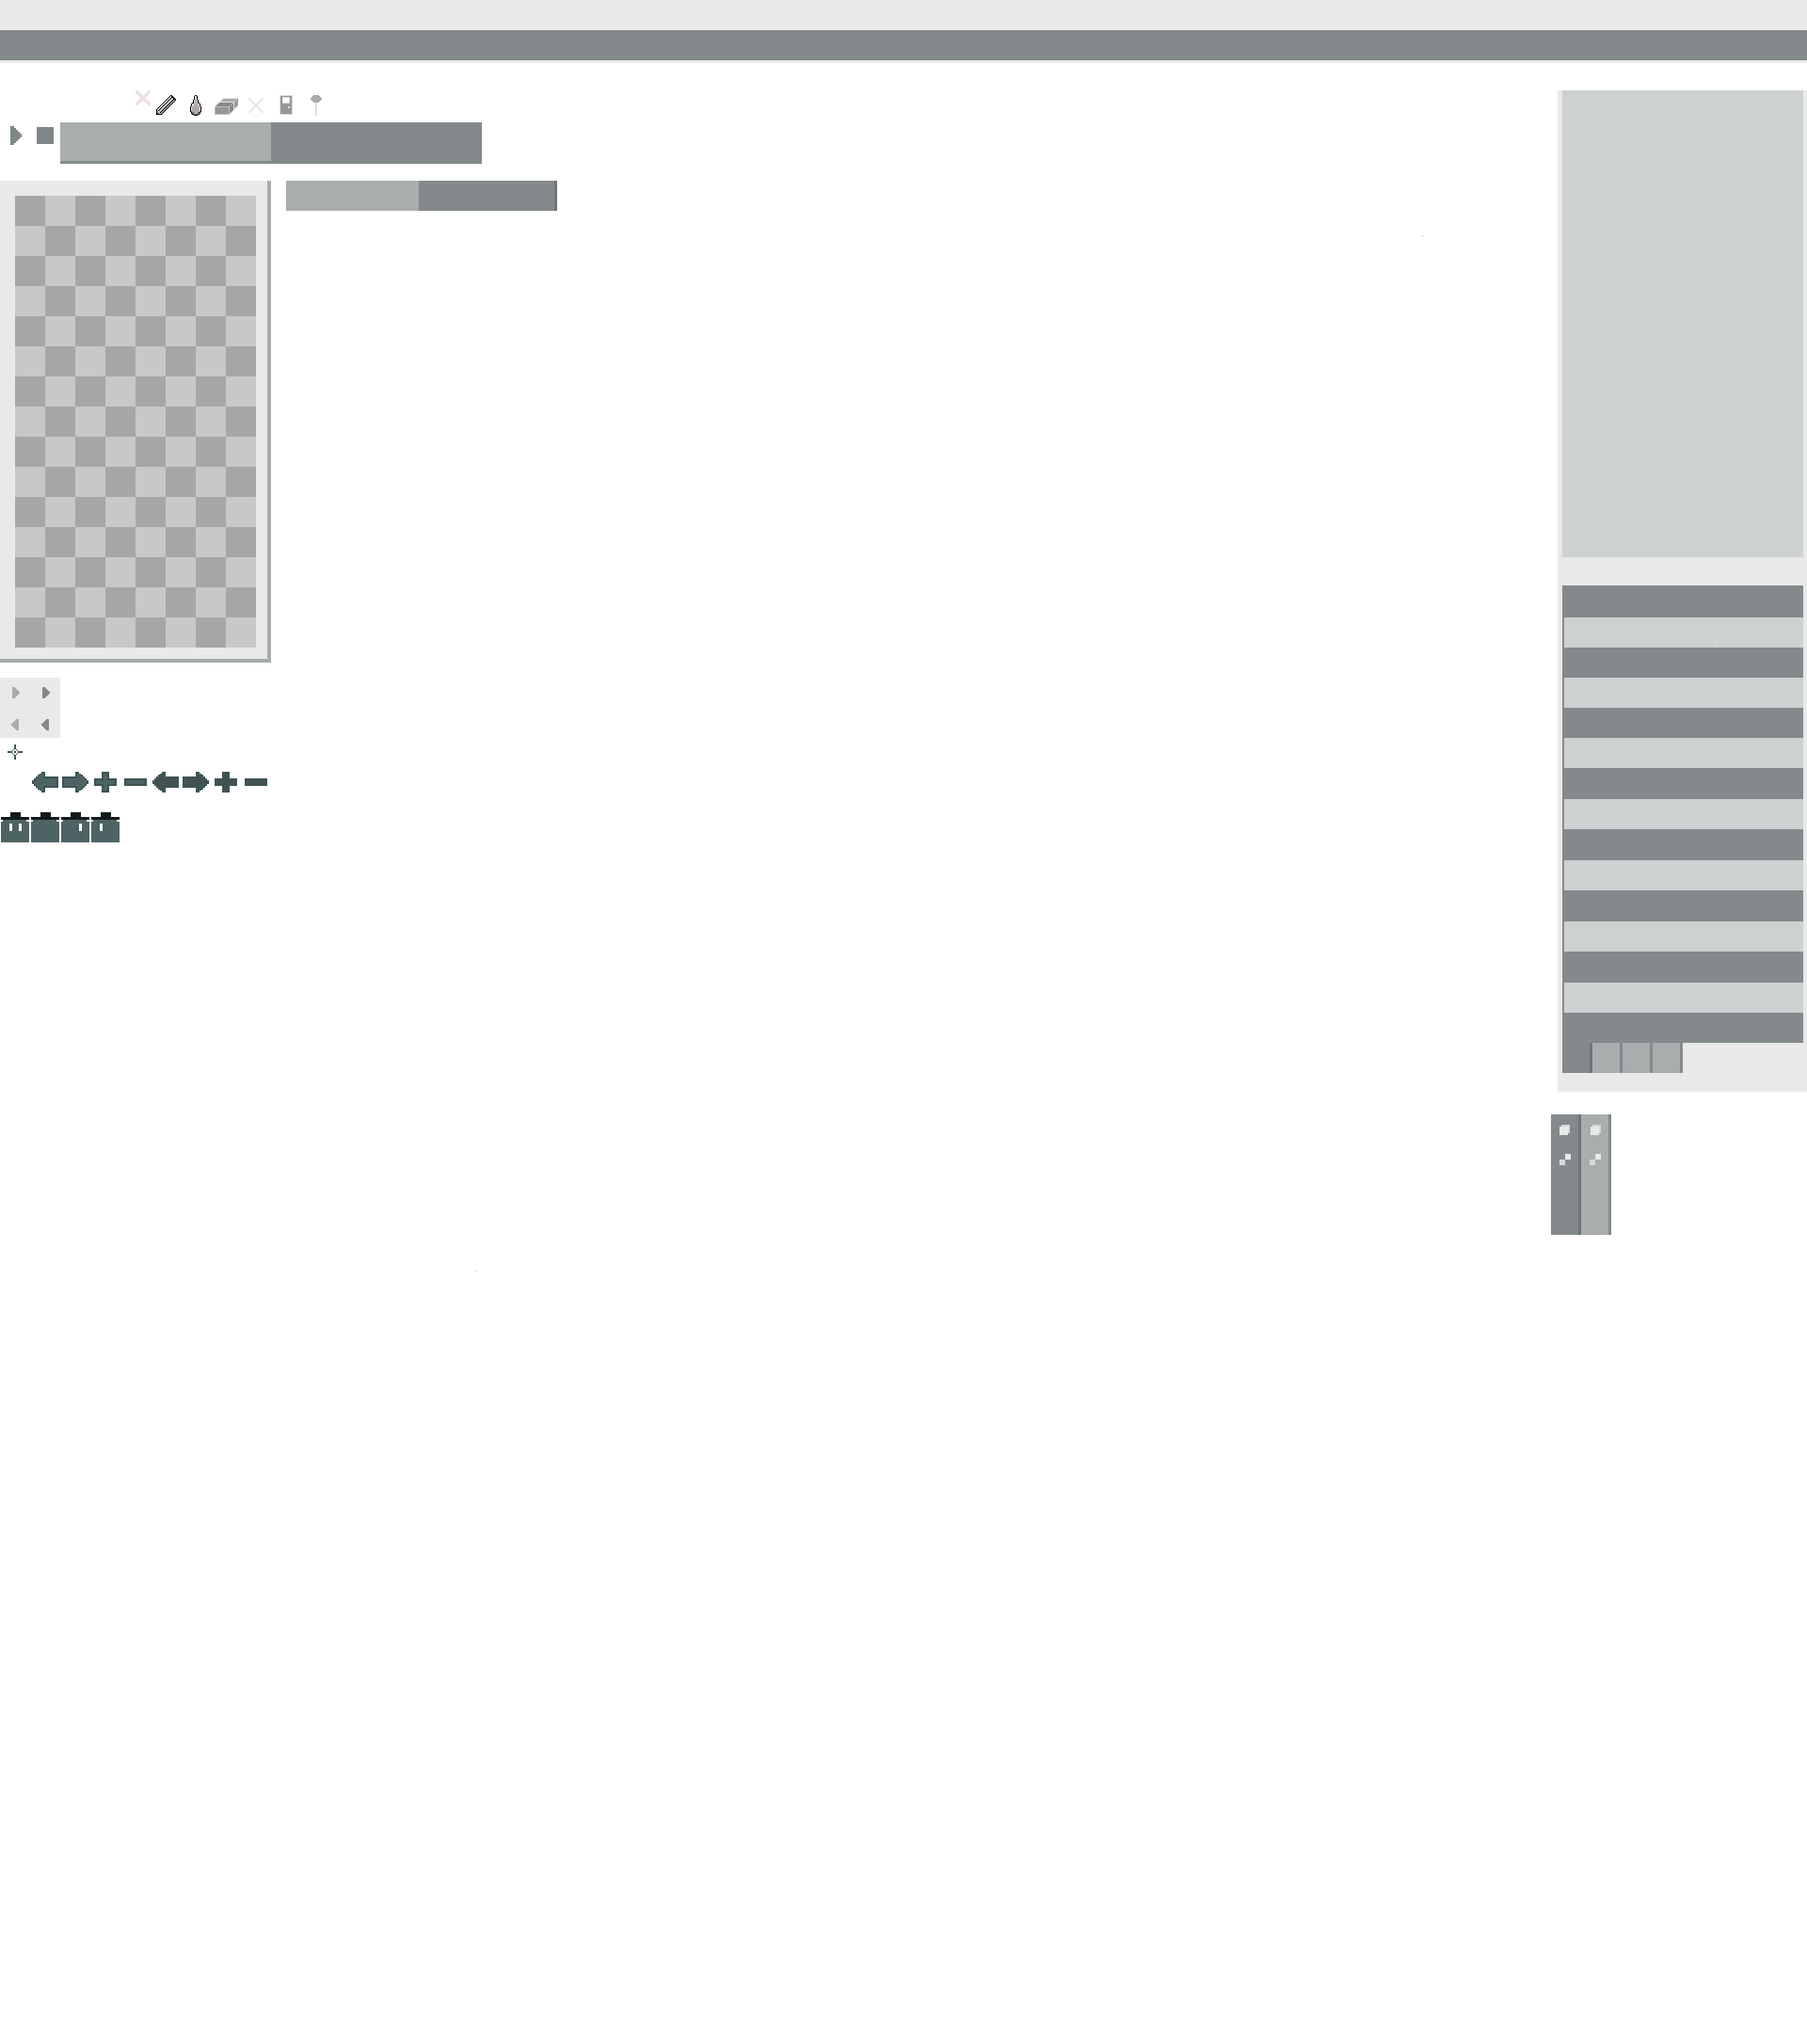
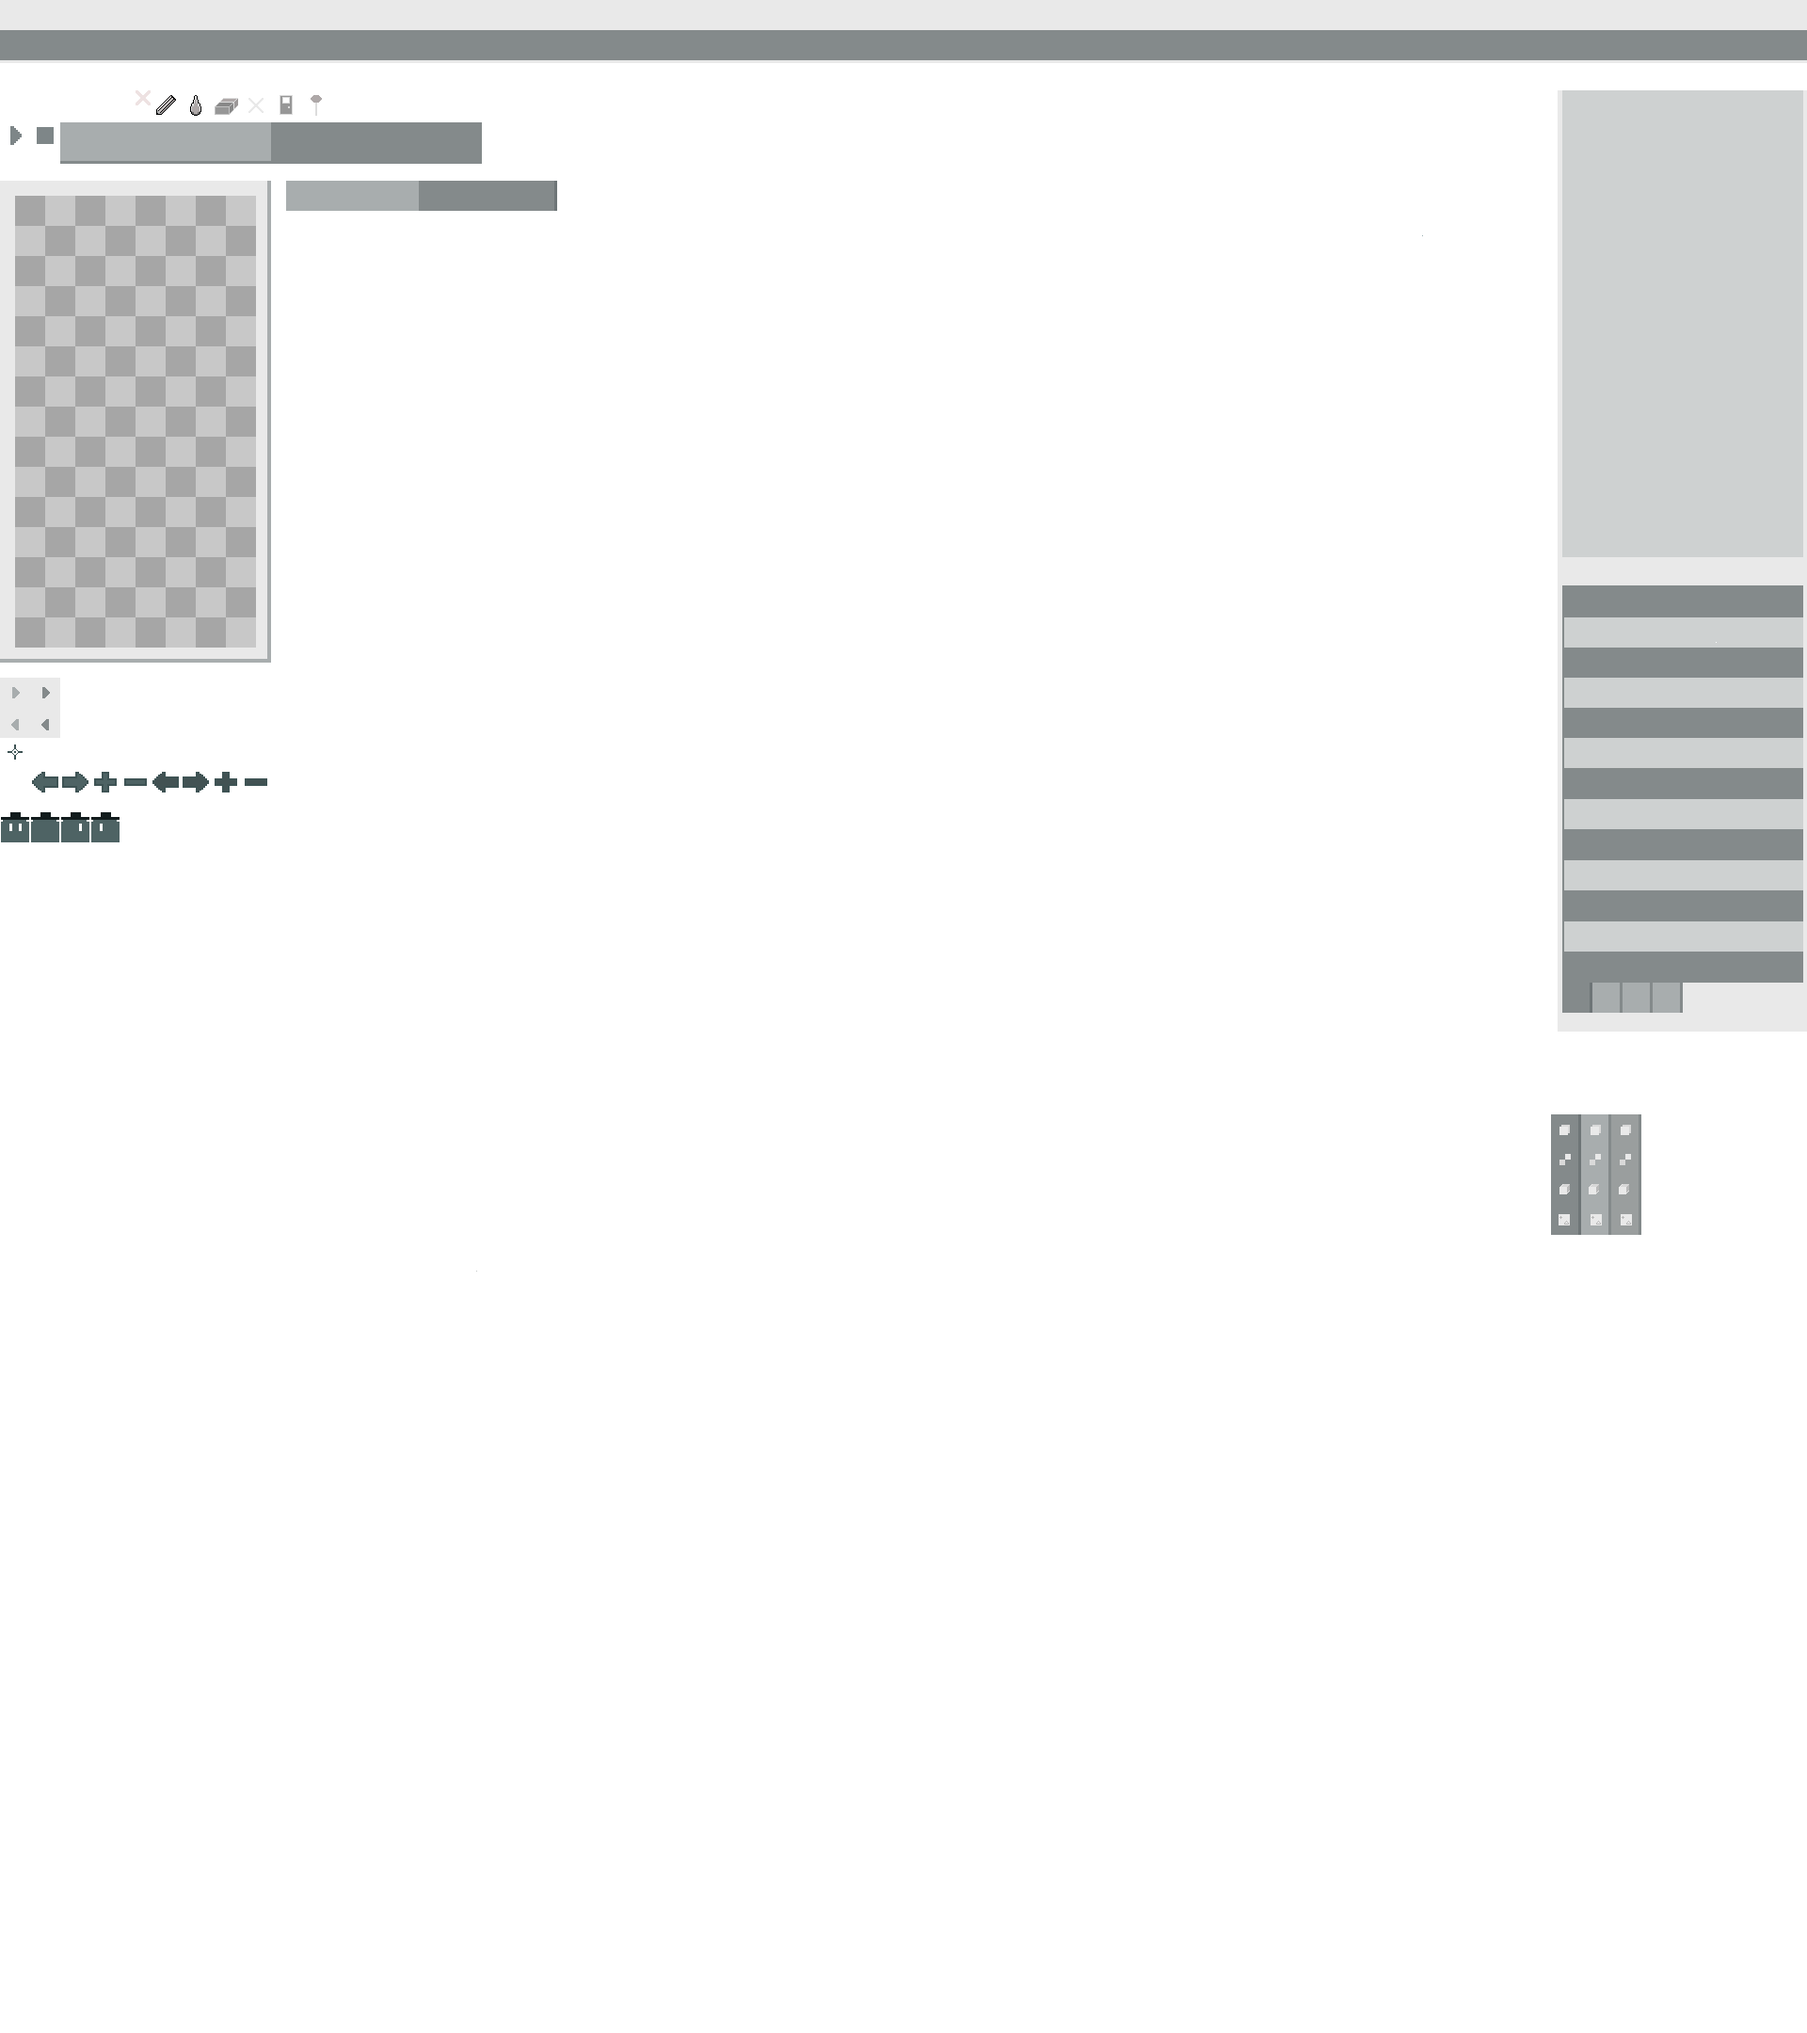
idk

Changed region(s): [[0.8438, 0.4653, 1.0, 0.6204]]

diff --git a/Game1.cs b/Game1.cs
@@ -93,13 +93,18 @@ namespace tile_mapper
         Button WorldScreen;
         Button SheetScreen;
         Button RuleSetScreen;
+        Button AreaMenuButton;
+        Button LayerMenuButton;
+        Button ObjectMenuButton;
+        Button SpriteMenuButton;
+
         Area StartArea;
         Area SelectedArea;
 
         List<UI_Menu> PropertyMenu1 = new List<UI_Menu>();
 
 
-        Rectangle CharacterSource = new Rectangle(0, 800, 32, 32);
+        Rectangle CharacterSource = new Rectangle(0, 864, 32, 32);
         
 
         Rectangle CharacterRect;
@@ -192,10 +197,10 @@ namespace tile_mapper
             EraserTool = new Button("", new Rectangle(64, 32, 32, 32), 160 + 64, 160 + 64, ButtonAction.EraserTool, true);
             EraserTool.SourceRect.Y = 96;
 
-            SpecifyStartPoint = new Button("", new Rectangle(96, 32, 32, 32), 160 + 128 + 32, 160 + 128 + 32, ButtonAction.SpecifyStartPoint, true);
+            SpecifyStartPoint = new Button("", new Rectangle(96, 32, 32, 32), 288 + 32, 288 + 32, ButtonAction.SpecifyStartPoint, true);
             SpecifyStartPoint.SourceRect.Y = 96;
 
-            SpecifyDoor = new Button("", new Rectangle(128, 32, 32, 32), 128 + 128, 128 + 128, ButtonAction.SpecifyDoor, true);
+            SpecifyDoor = new Button("", new Rectangle(128, 32, 32, 32), 288, 288, ButtonAction.SpecifyDoor, true);
             SpecifyDoor.SourceRect.Y = 96;
 
             ObjectButton = new Button("", new Rectangle(160, 0, 32, 32), 368, 368, ButtonAction.OpenObjectMenu, true);
@@ -205,9 +210,9 @@ namespace tile_mapper
             TestMap.SourceRect.Y = 128;
             StopTest = new Button("", new Rectangle(ScreenWidth/2, 0, 32, 32), 32,32, ButtonAction.EditState, true);
             StopTest.SourceRect.Y = 128;
-            CollisionCheckBox = new Button("", new Rectangle(1767, 832, 32, 32), 288, 288, ButtonAction.MakeCollision, false);
-            CollisionCheckBox.SourceRect.Y = 80;
-            CollisionCheckBox.PressedSourceX = 320;
+            //CollisionCheckBox = new Button("", new Rectangle(1660, 656-64, 32, 32), 288, 288, ButtonAction.MakeCollision, false);
+            //CollisionCheckBox.SourceRect.Y = 80;
+            //CollisionCheckBox.PressedSourceX = 320;
 
             WorldScreen = new Button("Editor", new Rectangle(0, 0, 144, 32), 304, 304, ButtonAction.EditorScreen, true);
             WorldScreen.IsPressed = true;
@@ -223,6 +228,26 @@ namespace tile_mapper
             RuleSetScreen.IsPressed = false;
             RuleSetScreen.PressedSourceX = 448;
             RuleSetScreen.SourceRect.Y = 192;
+
+            LayerMenuButton = new Button("", new Rectangle(1660, 1044 - 64, 32, 32), 1680 + 32, 1680, ButtonAction.OpenLayerMenu, true);
+            LayerMenuButton.IsPressed = true;
+            LayerMenuButton.SourceRect.Y = 1184;
+            LayerMenuButton.PressedSourceX = 1648;
+
+            AreaMenuButton = new Button("", new Rectangle(1660 + 32, 1044 - 64, 32, 32), 1680 + 32, 1680, ButtonAction.OpenAreaMenu, true);
+            AreaMenuButton.IsPressed = false;
+            AreaMenuButton.SourceRect.Y = 1184 + 32;
+            AreaMenuButton.PressedSourceX = 1648;
+
+            ObjectMenuButton = new Button("", new Rectangle(1660 + 64, 1044 - 64, 32, 32), 1680 + 32, 1680, ButtonAction.OpenObjectMenu, true);
+            ObjectMenuButton.IsPressed = false;
+            ObjectMenuButton.SourceRect.Y = 1184 + 64;
+            ObjectMenuButton.PressedSourceX = 1648;
+
+            SpriteMenuButton = new Button("", new Rectangle(1660 + 96, 1044 - 64, 32, 32), 1680 + 32, 1680, ButtonAction.OpenObjectMenu, true);
+            SpriteMenuButton.IsPressed = false;
+            SpriteMenuButton.SourceRect.Y = 1184 + 96;
+            SpriteMenuButton.PressedSourceX = 1648;
 
             CurrentTileID = new Label();
             Collision = new Label();
@@ -273,10 +298,10 @@ namespace tile_mapper
             CurrentTileID.SourceRect.Width = 0;
             CurrentTileID.SourceRect.Height = 0;
 
-            Collision.LabelRect = new Rectangle(1766, 800 + 32, 150, 32);
-            Collision.Text = "Collision";
-            Collision.SourceRect.Width = 0;
-            Collision.SourceRect.Height = 0;
+            //Collision.LabelRect = new Rectangle(1660, 656 + 64, 256, 32);
+            //Collision.Text = "Collision";
+            //Collision.SourceRect.Width = 0;
+            //Collision.SourceRect.Height = 0;
 
             for (int i = 0; i <= CurrentMap.LayerAmount; i++)
             {
@@ -289,7 +314,7 @@ namespace tile_mapper
                 }
                 button.HelperInt = i;
                 button.PressedSourceX = 288;
-                Properties.buttons.Add(button);
+                LayerMenu.buttons.Add(button);
 
             }
 
@@ -310,9 +335,15 @@ namespace tile_mapper
             TileMenu.buttons.Add(Import);
             TileMenu.buttons.Add(ClosePalette);
 
-            TileProperties.labels.Add(CurrentTileID);
-            TileProperties.labels.Add(Collision);
-            TileProperties.buttons.Add(CollisionCheckBox);
+            Properties.buttons.Add(LayerMenuButton);
+            Properties.buttons.Add(ObjectMenuButton);
+            Properties.buttons.Add(AreaMenuButton);
+            Properties.buttons.Add(SpriteMenuButton);
+
+
+            //TileProperties.labels.Add(CurrentTileID);
+            //TileProperties.labels.Add(Collision);
+            //TileProperties.buttons.Add(CollisionCheckBox);
 
             LayerMenu.labels.Add(LayerName);
 
@@ -405,9 +436,9 @@ namespace tile_mapper
                             CursorActionState = CursorState.Draw;
                             CurrentTileID.IsVisible = true;
                             CurrentTileID.Text = "ID: " + selected.ID;
-                            Collision.IsVisible = true;
-                            CollisionCheckBox.IsVisible = true;
-                            CollisionCheckBox.IsPressed = selected.Collision;
+                           // Collision.IsVisible = true;
+                            //CollisionCheckBox.IsVisible = true;
+                            //CollisionCheckBox.IsPressed = selected.Collision;
                         }
                         else
                         {
@@ -480,8 +511,10 @@ namespace tile_mapper
                 {
                     string name = "Area: " + (CurrentMap.areas.Count() + 1).ToString();
                     CurrentMap.CreateArea(Selection, name);
-                    Button btn = new Button(name, new Rectangle(Properties.Destination.X + Properties.Destination.Width / 2 - 96 / 2, Properties.Destination.Y + CurrentMap.areas.Count() * 32 - 32 + 16 + 8 * CurrentMap.areas.Count() - 8, 96, 32), 96, 0, ButtonAction.SelectArea, true);
-                    btn.PressedSourceX = 96;
+                    Button btn = new Button("Area " + (CurrentMap.areas.Count() + 1).ToString(), new Rectangle(Properties.Destination.X + Properties.Destination.Width / 2 - 224 / 2, Properties.Destination.Y+ 48 * CurrentMap.areas.Count(), 224, 48), 288, 64, ButtonAction.Layer, true);
+                    btn.PressedSourceX = 288;
+                    btn.SourceRect.Y = 128;
+
 
                     Properties.buttons.Add(btn);
                 }
@@ -759,10 +792,10 @@ namespace tile_mapper
                             buttonClicked.IsPressed = true;
                             ClickedLayerButton = buttonClicked;
                             LayerName.Text = "ID: " + ClickedLayerButton.Text;
-                            // Properties.labels.FirstOrDefault(obj => obj.Text == LayerName.Text).Text = ClickedLayerButton.Text;
+                            break;
+                        case ButtonAction.OpenLayerMenu:
                             menuState = MenuState.LayerMenu;
                             UpdateMenuState();
-
                             break;
                         case ButtonAction.Save:
                             WriteFile();
@@ -801,10 +834,10 @@ namespace tile_mapper
                             AreaWidth.Text = "Height: " + SelectedArea.AreaCords.Width.ToString();
                             AreaX.Text = "Left: " + SelectedArea.AreaCords.X.ToString();
                             AreaY.Text = "Top: " + SelectedArea.AreaCords.Y.ToString();
-
+                            break;
+                        case ButtonAction.OpenAreaMenu:
                             menuState = MenuState.AreaMenu;
                             UpdateMenuState();
-
                             break;
                         case ButtonAction.RemoveArea:
                             if(ClickedAreaButton != null)
@@ -1090,10 +1123,13 @@ namespace tile_mapper
                     ObjectMenu.IsVisible = true;
                     break;
             }
+
+            foreach (var btn in Properties.buttons)
+            {
+
+            }
         }
-
     }
-
 }
 
 

diff --git a/Map.cs b/Map.cs
@@ -171,6 +171,9 @@ namespace tile_mapper
         MoveLeftLayer,
         MoveRightLayer,
         OpenObjectMenu,
+        OpenLayerMenu,
+        OpenAreaMenu,
+        OpenSpriteMenu,
         EditorScreen,
         SheetScreen
     }
